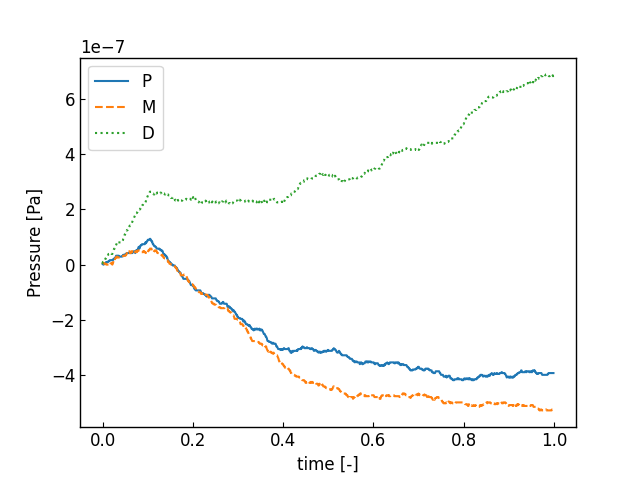
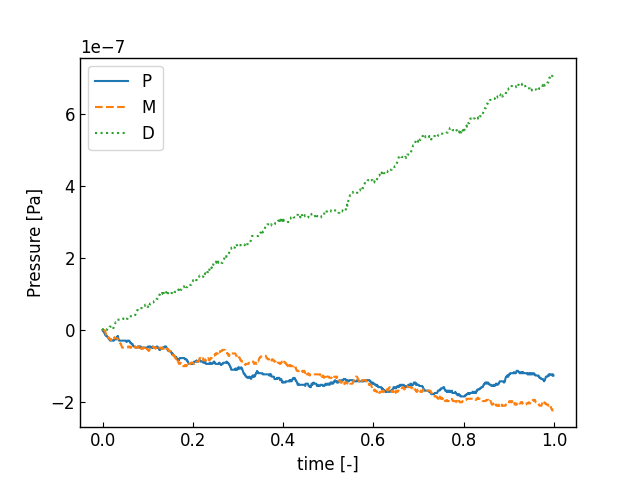
RHSを修正

diff --git a/src/flow1D.cpp b/src/flow1D.cpp
@@ -7,24 +7,32 @@ void FLOW1D::exec(const int iter)
 {
   MatrixXd A_area = MatrixXd::Zero(NODE_NUM, NODE_NUM);
   MatrixXd A_flowQuantity = MatrixXd::Zero(NODE_NUM, NODE_NUM);
-  VectorXd b_area = VectorXd::Zero(NODE_NUM);
-  VectorXd b_flowQuantity = VectorXd::Zero(NODE_NUM);
+  b_area = VectorXd::Zero(NODE_NUM);
+  b_flowQuantity = VectorXd::Zero(NODE_NUM);
 
   compute_LHS(A_area);
-
   A_flowQuantity = A_area;
 
   compute_RHS(b_area,b_flowQuantity,iter);
 
   //boundary condition
-  area[NODE_NUM - 1] = A0;
+  for(int j=0;j<NODE_NUM;j++){
+    A_area(0,j) = 0e0;
+    A_area(NODE_NUM-1,j) = 0e0;
+  }
+  A_area(0,0) = 1e0;
+  A_area(NODE_NUM-1,NODE_NUM-1) = 1e0;
+
+  b_area(0) = A0;
+  b_area(NODE_NUM-1) = A0;
 
   Eigen::VectorXd x_area = A_area.fullPivLu().solve(b_area);
 
   //boundary condition
   for(int j=0;j<NODE_NUM;j++) A_flowQuantity(0,j) = 0e0;
   A_flowQuantity(0,0) = 1e0;
-  flowQuantity[0] = A0 * v0 * (1e0 + 1e-1 * sin(2e0 * M_PI * 5e0 * iter / M));
+  // flowQuantity[0] = A0 * v0 * (1e0 + 1e-1 * sin(2e0 * M_PI * 5e0 * iter / M));
+  b_flowQuantity(0) = A0 * 1e0;
 
   Eigen::VectorXd x_flowQuantity = A_flowQuantity.fullPivLu().solve(b_flowQuantity);
 
@@ -32,6 +40,7 @@ void FLOW1D::exec(const int iter)
   {
     area[j] = x_area(j);
     flowQuantity[j] = x_flowQuantity(j);
+    pressure[j] = beta * (sqrt(area[j])-sqrt(A0));
   }
 }
 
@@ -70,63 +79,101 @@ void FLOW1D::compute_RHS(Eigen::VectorXd &b_area,Eigen::VectorXd &b_flowQuantity
     double flow0 = flowQuantity[ele0], flow1 = flowQuantity[ele1];
     double area0 = area[ele0], area1 = area[ele1];
 
+    array<double,2> G0,G1;
+    G0[0] = flow0;
+    G0[1] = flow0*flow0/area0 + beta/(3e0*rho)*pow(area0,1.5e0);
+    G1[0] = flow1;
+    G1[1] = flow1*flow1/area1 + beta/(3e0*rho)*pow(area1,1.5e0);
+
+    array<double,2> B0,B1;
+    B0[0] = 0e0;
+    B0[1] = -K_R*flow0/area0; //dbdx = 0
+    B1[0] = 0e0;
+    B1[1] = -K_R*flow1/area1; //dbdx = 0
+
     Gauss g(1);
-    vector<double> N(2);
-    vector<double> dNdr(2);
-    vector<double> dNdx(2);
-    vector<double> dNinvdr(2);
-    vector<double> dNinvdx(2);
+  
+    vector<double> N(2),dNdr(2),dNdx(2);
 
     for (int k = 0; k < 2; k++)
     {
       ShapeFunction1D::P2_N(N, g.point[k]);
       ShapeFunction1D::P2_dNdr(dNdr, g.point[k]);
-      ShapeFunction1D::P2_dNinvdr(dNinvdr, g.point[k]);
 
-      double dxdr = dNdr.at(0) * x.at(ele0) + dNdr.at(1) * x.at(ele1);
+      double dxdr = dNdr[0] * x.at(ele0) + dNdr[1] * x.at(ele1);
       double drdx = 1e0 / dxdr;
 
-      dNdx.at(0) = dNdr.at(0) * drdx;
-      dNdx.at(1) = dNdr.at(1) * drdx;
+      dNdx[0] = dNdr[0] * drdx;
+      dNdx[1] = dNdr[1] * drdx;
 
-      dNinvdx.at(0) = dNinvdr.at(0) * drdx;
-      dNinvdx.at(1) = dNinvdr.at(1) * drdx;
+      double Flow = N.at(0) * flow0 + N.at(1) * flow1;
+      double Area = N.at(0) * area0 + N.at(1) * area1;
 
-      double Q = N.at(0) * flow0 + N.at(1) * flow1;
-      double A = N.at(0) * area0 + N.at(1) * area1;
-      double dQdx = dNdx.at(0) * flow0 + dNdx.at(1) * flow1;
-      double dAdx = dNdx.at(0) * area0 + dNdx.at(1) * area1;
-      double dAinvdx = dNinvdx.at(0) / area0 + dNinvdx.at(1) / area1;
-      double dQQAdx = dAinvdx * Q * Q + (1 / A) * dQdx * Q + (1 / A) * Q * dQdx;
+      Vector2d G,B,dGdx;
+      G(0) = N[0]*G0[0]+N[1]*G1[0];
+      G(1) = N[0]*G0[1]+N[1]*G1[1];
+
+      dGdx(0) = dNdx[0]*G0[0] + dNdx[1]*G1[0];
+      dGdx(1) = dNdx[0]*G0[1] + dNdx[1]*G1[1];
+
+      B(0) = N[0]*B0[0]+N[1]*B1[0];
+      B(1) = N[0]*B0[1]+N[1]*B1[1];
+
+      Matrix2d dGdQ,dBdQ;
+      dGdQ(0,0) = 0e0;
+      dGdQ(0,1) = 1e0;
+      dGdQ(1,0) = -Flow*Flow/(Area*Area)+5e-1*beta/rho*sqrt(Area);
+      dGdQ(1,1) = 2e0*Flow/Area;
+
+      dBdQ(0,0) = 0e0;
+      dBdQ(0,1) = 0e0;
+      dBdQ(1,0) = K_R*Flow/(Area*Area);
+      dBdQ(1,1) =-K_R/Area;
+
+      Vector2d G_LW = G + 5e-1*dt * dGdQ * B;
+      Vector2d B_LW = B + 5e-1*dt * dBdQ * B;
 
       //first term
-      b_area(ele0) += N.at(0) * A * g.weight[k] * dxdr;
-      b_area(ele1) += N.at(1) * A * g.weight[k] * dxdr;
-      b_flowQuantity(ele0) += N.at(0) * Q * g.weight[k] * dxdr;
-      b_flowQuantity(ele1) += N.at(1) * Q * g.weight[k] * dxdr;
+      b_area(ele0)         += N.at(0) * Area * g.weight[k] * dxdr;
+      b_area(ele1)         += N.at(1) * Area * g.weight[k] * dxdr;
+      b_flowQuantity(ele0) += N.at(0) * Flow * g.weight[k] * dxdr;
+      b_flowQuantity(ele1) += N.at(1) * Flow * g.weight[k] * dxdr;
 
       //second term
-      b_area(ele0) += dNdx.at(0) * dt * (Q + dt / 2e0 * (-K_R * Q / A)) * g.weight[k] * dxdr;
-      b_area(ele1) += dNdx.at(1) * dt * (Q + dt / 2e0 * (-K_R * Q / A)) * g.weight[k] * dxdr;
-      b_flowQuantity(ele0) += dNdx.at(0) * dt * (Q * Q / A + betha / 3e0 / rho * pow(A, 1.5e0) + dt * Q / A * (-K_R * Q / A)) * g.weight[k] * dxdr;
-      b_flowQuantity(ele1) += dNdx.at(1) * dt * (Q * Q / A + betha / 3e0 / rho * pow(A, 1.5e0) + dt * Q / A * (-K_R * Q / A)) * g.weight[k] * dxdr;
+      if(j==0) cout << G_LW << endl;
+      b_area(ele0)         += dNdx.at(0) * dt * G_LW(0) * g.weight[k] * dxdr;
+      b_area(ele1)         += dNdx.at(1) * dt * G_LW(0) * g.weight[k] * dxdr;
+      b_flowQuantity(ele0) += dNdx.at(0) * dt * G_LW(1) * g.weight[k] * dxdr;
+      b_flowQuantity(ele1) += dNdx.at(1) * dt * G_LW(1) * g.weight[k] * dxdr;
 
       //third term
-      b_flowQuantity(ele0) += -N.at(0) * dt * dt / 2.0e0 * (K_R * Q / (A * A) * dQdx - (K_R / A) * dQQAdx - (betha * K_R / (2e0 * rho)) * pow(A, -5e-1) * dAdx) * g.weight[k] * dxdr;
-      b_flowQuantity(ele1) += -N.at(1) * dt * dt / 2.0e0 * (K_R * Q / (A * A) * dQdx - (K_R / A) * dQQAdx - (betha * K_R / (2e0 * rho)) * pow(A, -5e-1) * dAdx) * g.weight[k] * dxdr;
+      Vector2d tmp = dBdQ * dGdx;
+
+      if(j==0) cout << tmp << endl;
+      b_area(ele0)         += -N[0]*dt*dt/2e0 * tmp(0) * g.weight[k] * dxdr;
+      b_area(ele1)         += -N[1]*dt*dt/2e0 * tmp(0) * g.weight[k] * dxdr;
+      b_flowQuantity(ele0) += -N[0]*dt*dt/2e0 * tmp(1) * g.weight[k] * dxdr;
+      b_flowQuantity(ele1) += -N[1]*dt*dt/2e0 * tmp(1) * g.weight[k] * dxdr;
 
       //fourth term
-      b_area(ele0) += -dNdx.at(0) * dt * dt / 2.0e0 * (dQQAdx + (betha / (2e0 * rho)) * pow(A, 5e-1) * dAdx) * g.weight[k] * dxdr;
-      b_area(ele1) += -dNdx.at(1) * dt * dt / 2.0e0 * (dQQAdx + (betha / (2e0 * rho)) * pow(A, 5e-1) * dAdx) * g.weight[k] * dxdr;
-      b_flowQuantity(ele0) += -dNdx.at(0) * dt * dt / 2.0e0 * (-(Q * Q / A) * dQdx + (betha / 2e0 / rho) * pow(A, 5e-1) * dQdx + 2e0 * Q / A * dQQAdx + betha / rho * pow(A, -5e-1) * Q * dAdx) * g.weight[k] * dxdr;
-      b_flowQuantity(ele1) += -dNdx.at(1) * dt * dt / 2.0e0 * (-(Q * Q / A) * dQdx + (betha / 2e0 / rho) * pow(A, 5e-1) * dQdx + 2e0 * Q / A * dQQAdx + betha / rho * pow(A, -5e-1) * Q * dAdx) * g.weight[k] * dxdr;
+      tmp = dGdQ * dGdx;
+
+      if(j==0) cout << tmp << endl;
+      b_area(ele0)         += -dNdx.at(0) * dt * dt / 2e0 * tmp(0) * g.weight[k] * dxdr;
+      b_area(ele1)         += -dNdx.at(1) * dt * dt / 2e0 * tmp(0) * g.weight[k] * dxdr;
+      b_flowQuantity(ele0) += -dNdx.at(0) * dt * dt / 2e0 * tmp(1) * g.weight[k] * dxdr;
+      b_flowQuantity(ele1) += -dNdx.at(1) * dt * dt / 2e0 * tmp(1) * g.weight[k] * dxdr;
 
       //fifth term
-      b_flowQuantity(ele0) += N.at(0) * dt * (-K_R * Q / A + dt / 2e0 * K_R * K_R * Q / A / A) * g.weight[k] * dxdr;
-      b_flowQuantity(ele1) += N.at(1) * dt * (-K_R * Q / A + dt / 2e0 * K_R * K_R * Q / A / A) * g.weight[k] * dxdr;
+      b_area(ele0)         += N.at(0) * dt * B_LW(0) * g.weight[k] * dxdr;
+      b_area(ele1)         += N.at(1) * dt * B_LW(0) * g.weight[k] * dxdr;
+      b_flowQuantity(ele0) += N.at(0) * dt * B_LW(1) * g.weight[k] * dxdr;
+      b_flowQuantity(ele1) += N.at(1) * dt * B_LW(1) * g.weight[k] * dxdr;
     }
   }
 
+  cout << b_flowQuantity(0) << endl;
+  cout << b_flowQuantity(1) << endl;
 }
 
 void FLOW1D::output_init()
@@ -192,15 +239,15 @@ void FLOW1D::output(const int iter)
   {
     if (j == NODE_NUM / 4)
     {
-      ofs4 << betha * (sqrt(area[j]) - sqrt(A0)) << " ";
+      ofs4 << beta * (sqrt(area[j]) - sqrt(A0)) << " ";
     }
     if (j == NODE_NUM / 2)
     {
-      ofs5 << betha * (sqrt(area[j]) - sqrt(A0)) << " ";
+      ofs5 << beta * (sqrt(area[j]) - sqrt(A0)) << " ";
     }
     if (j == NODE_NUM * 3 / 4)
     {
-      ofs6 << betha * (sqrt(area[j]) - sqrt(A0)) << " ";
+      ofs6 << beta * (sqrt(area[j]) - sqrt(A0)) << " ";
     }
   }
 
@@ -252,7 +299,40 @@ void FLOW1D::exportVTP(const int iter)
 
   fprintf(fp, "</Lines>\n");
 
-  fprintf(fp,"<CellData>\n");
+  fprintf(fp,"<PointData>\n");
+  fprintf(fp,"<DataArray type=\"Float32\" Name=\"Area\" NumberOfComponents=\"1\" format=\"ascii\">\n");
+  for(int i=0;i<NODE_NUM;i++){
+    fprintf(fp,"%e\n",area[i]);
+  }
+  fprintf(fp,"</DataArray>\n");
+  fprintf(fp,"<DataArray type=\"Float32\" Name=\"radius\" NumberOfComponents=\"1\" format=\"ascii\">\n");
+  for(int i=0;i<NODE_NUM;i++){
+    fprintf(fp,"%e\n",sqrt(area[i]/PI));
+  }
+  fprintf(fp,"</DataArray>\n");
+  fprintf(fp,"<DataArray type=\"Float32\" Name=\"FlowRate\" NumberOfComponents=\"1\" format=\"ascii\">\n");
+  for(int i=0;i<NODE_NUM;i++){
+    fprintf(fp,"%e\n",flowQuantity[i]);
+  }
+  fprintf(fp,"</DataArray>\n");
+  fprintf(fp,"<DataArray type=\"Float32\" Name=\"pressure\" NumberOfComponents=\"1\" format=\"ascii\">\n");
+  for(int i=0;i<NODE_NUM;i++){
+    fprintf(fp,"%e\n",pressure[i]);
+  }
+  fprintf(fp,"</DataArray>\n");
+
+  fprintf(fp,"<DataArray type=\"Float32\" Name=\"RHS_area\" NumberOfComponents=\"1\" format=\"ascii\">\n");
+  for(int i=0;i<NODE_NUM;i++){
+    fprintf(fp,"%e\n",b_area(i));
+  }
+  fprintf(fp,"</DataArray>\n");
+
+  fprintf(fp,"<DataArray type=\"Float32\" Name=\"RHS_Q\" NumberOfComponents=\"1\" format=\"ascii\">\n");
+  for(int i=0;i<NODE_NUM;i++){
+    fprintf(fp,"%e\n",b_flowQuantity[i]);
+  }
+  fprintf(fp,"</DataArray>\n");
+
   // fprintf(fp,"<DataArray type=\"Int32\" Name=\"LV0\" NumberOfComponents=\"1\" format=\"appended\" offset=\"%d\"/>\n",numOfData);
   // numOfData += sizeof(int) + sizeof(int) * numOfVessel;
   // fprintf(fp,"<DataArray type=\"Int32\" Name=\"parent\" NumberOfComponents=\"1\" format=\"appended\" offset=\"%d\"/>\n",numOfData);
@@ -270,7 +350,7 @@ void FLOW1D::exportVTP(const int iter)
   // if(vesselType==VesselType::ARTERY){
   // fprintf(fp,"<DataArray type=\"Int32\" Name=\"WillisID\" NumberOfComponents=\"1\" format=\"appended\" offset=\"%d\"/>\n",numOfData);
   // }
-  fprintf(fp,"</CellData>\n");
+  fprintf(fp,"</PointData>\n");
 
   fprintf(fp, "</Piece>\n");
   fprintf(fp, "</PolyData>\n");

diff --git a/src/flow1D.h b/src/flow1D.h
@@ -31,6 +31,7 @@
 #include <type_traits>
 #include <utility>
 #include <vector>
+#include <array>
 #include <cmath>
 #include <cstdio>
 #include <iomanip>
@@ -46,27 +47,26 @@
 
 class FLOW1D {
  public:
-  
 
   int ELEMENT_NUM = 100;
   int NODE_NUM = ELEMENT_NUM + 1;
 
-  std::vector<std::vector<double>> element = std::vector(ELEMENT_NUM, std::vector<double>(3, 0));
+  std::vector<std::vector<double>> element = std::vector(ELEMENT_NUM, std::vector<double>(2, 0));
   std::vector<double> x;
 
-  const double L = 1.0e-1;                                     // tubeの長さ[m]
+  // const double L = 1.0e0;                                     // tubeの長さ[m]
   const int M = 1200;                                          // 時間ステップ数[-]
-  const double dt = 2.0e-08;                                   // 時間刻み[s]
-  const double DELTA_X = L / ELEMENT_NUM;                      // 要素の長さ[m]
+  const double dt = 2e-06;                                   // 時間刻み[s]
+  // const double DELTA_X = L / ELEMENT_NUM;                      // 要素の長さ[m]
   const double PI = M_PI;                                      // 円周率
-  const double r0 = 1.0e-02;                                   // 初期状態のtubeの半径[m]
-  const double h0 = r0 / 1e1;                                  // 初期状態のtubeの厚さ[m]
-  const double A0 = PI * pow(r0 - h0, 2.0e0);                  // 初期状態のtubeの流路面積（位置座標によらない）[m^2]
-  const double K_R = 3.3e0;                                    // 粘性抵抗K_R[m^2/s]
-  const double rho = 1.06e6;                                   // 密度[g/m^3]
-  const double E = 1.0e08;                                     // ヤング率(0.1MPa)[g/m/s^2]
-  const double betha = 4.0e0 / 3.0e0 * sqrt(PI) * h0 * E / A0; // ß
-  double v0 = 1.0e0;                                           // 所定位置における初期状態のtubeの流速[m/s]
+  const double r0 = 1e-02;                                   // 初期状態のtubeの半径[m]
+  const double h0 = 1e-1*r0;                                  // 初期状態のtubeの厚さ[m]
+  const double A0 = PI * pow(r0-h0, 2.0e0);                  // 初期状態のtubeの流路面積（位置座標によらない）[m^2]
+  const double K_R = 1e0;                                    // 粘性抵抗K_R[m^2/s]
+  const double rho = 1.06e3;                                   // 密度[kg/m^3]
+  const double E = 1e5;                                     // ヤング率(0.1MPa)[Pa]
+  const double beta = 4.0e0 / 3.0e0 * sqrt(PI) * h0 * E / A0; // beta
+  double v0 = 0e0;                                           // 所定位置における初期状態のtubeの流速[m/s]
 
   std::vector<double> area = std::vector(NODE_NUM, 0e0);
   std::vector<double> velocity = std::vector(NODE_NUM, 0e0);
@@ -83,6 +83,9 @@ class FLOW1D {
   void exportVTP(const int iter);
 
  private:
+  Eigen::VectorXd b_area;
+  Eigen::VectorXd b_flowQuantity;
+
   void compute_LHS(Eigen::MatrixXd &A);
   void compute_RHS(Eigen::VectorXd &b_area,Eigen::VectorXd &b_flowQuantity,const int iter);
 

diff --git a/src/main.cpp b/src/main.cpp
@@ -21,11 +21,14 @@ int main(int argc,char *argv[])
   flow1D.init(5);
   flow1D.output_init();
 
-  for (int iter = 0; iter < flow1D.M; iter++)
+  int output_iter = 1;
+
+  for (int iter = 0; iter < 1; iter++)
   {
     flow1D.exec(iter);
     flow1D.output(iter);
-    flow1D.exportVTP(iter);
-    exit(1);
+    if(iter%output_iter==0){
+      flow1D.exportVTP(iter/output_iter);
+    }
   }
 }
